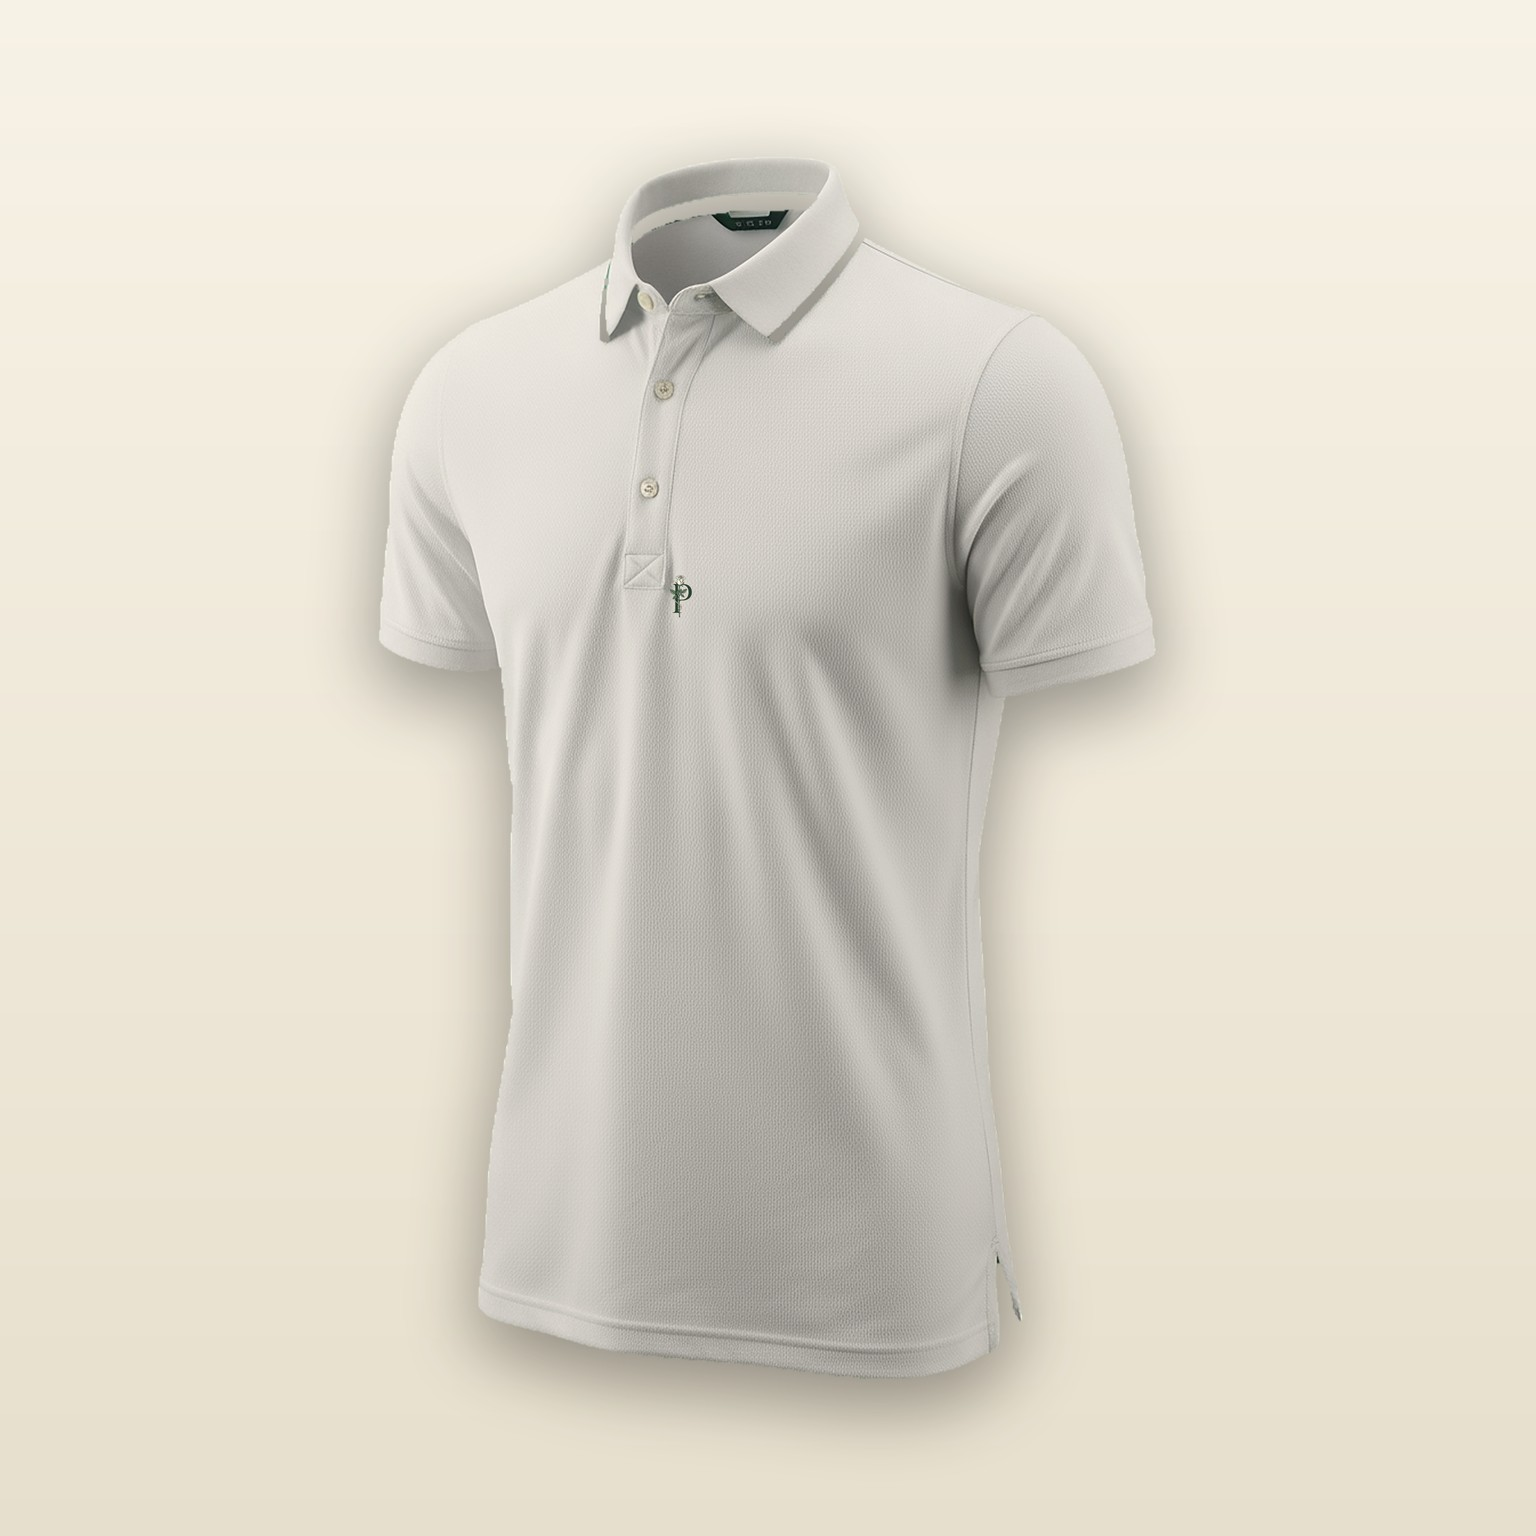
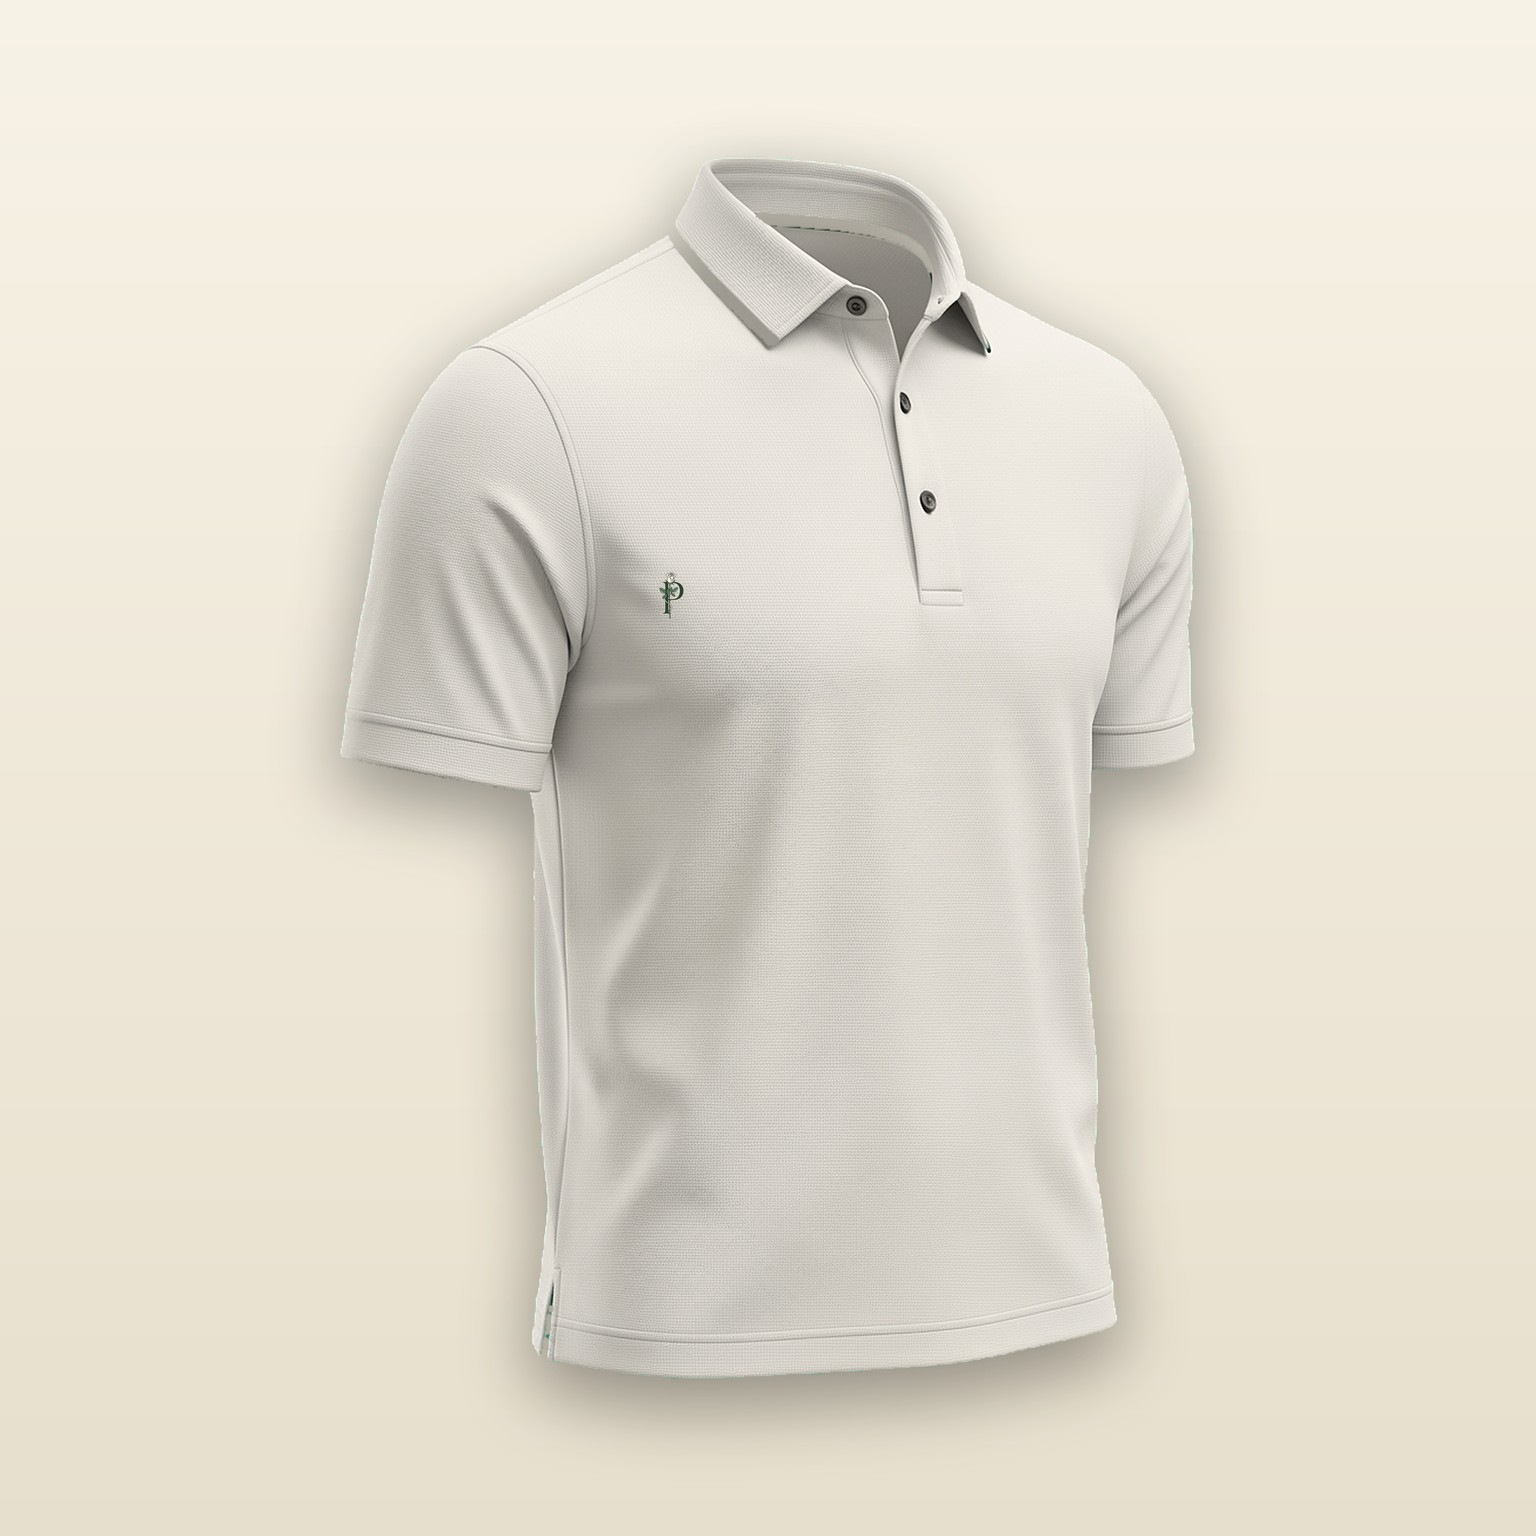
feat(merch): Tour Collection on Imagen-4 ULTRA — correct lineup (quarter-zip/hoodie/polo/vest/cap, no tee) — v8.25.236
Founder 2026-06-22: 'stop using the lowest version, merch looks cheap.' Upgraded the gen
pipeline default to Imagen-4 ULTRA (markedly better fabric/lighting/relief; IMG_MODEL env
override for cheaper tiers). Rebuilt the TOUR lineup to spec: Fairway Quarter-Zip (tour-navy),
Clubhouse Hoodie (charcoal merino, H&B Jackson style), Tour Pro Shirt (white piqué), Fairway
Vest (forest-green knit, H&B Boyd style), Tour Cap (white/navy twill, Titleist style) — the
tee removed from tour (moves to leisure). Vest keyed on blue (green-on-green fix); cap finished
on cream (white-on-green key fix) with the crest composited on the panel. All 5 V1'd retail-grade
with the P+rose crest. Next: leisure line + rubber-hose ball marker.

Changed region(s): [[0.1875, 0.0938, 0.8125, 0.9062]]

diff --git a/src/pages/merch.js b/src/pages/merch.js
@@ -20,11 +20,15 @@ Router.register("merch", function () {
   }
 
   // THE TOUR CAPSULE — P+rose, premium fabric, minimal branding, tour colorway.
+  // v8.25.236 (Founder 2026-06-22): tour line = quarter-zip, hoodie (H&B Jackson
+  // style), polo, vest (H&B Boyd style), cap (Titleist style). NO tee in tour —
+  // the tee belongs to the leisure line. Imagen-4 ULTRA packshots + composited crest.
   var TOUR = [
-    { img: "polo.jpg",       name: "The Tour Pro Shirt",     note: "Tournament-white performance piqué · clean self-collar" },
     { img: "quarterzip.jpg", name: "The Fairway Quarter-Zip", note: "Tour-navy brushed knit · brass pull" },
-    { img: "hoodie.jpg",     name: "The Clubhouse Hoodie",   note: "Heavyweight black brushed fleece" },
-    { img: "tee.jpg",        name: "The Tour Tee",           note: "Heather-grey combed cotton · soft hand" }
+    { img: "hoodie.jpg",     name: "The Clubhouse Hoodie",    note: "Charcoal merino-blend · quarter-zip hood" },
+    { img: "polo.jpg",       name: "The Tour Pro Shirt",      note: "Tournament-white performance piqué" },
+    { img: "vest.jpg",       name: "The Fairway Vest",        note: "Forest-green knit · brass zip" },
+    { img: "hat.jpg",        name: "The Tour Cap",            note: "Structured twill · tour-navy brim" }
   ];
 
   // THE PRO SHOP — accessories carry the brand accents (forest green / brass).

diff --git a/public/sw.js b/public/sw.js
@@ -12,7 +12,7 @@
 // the new SW never activated — browsers fell back to network on every request.
 // Install handler now uses Promise.all + per-asset cache.add().catch() (P22)
 // so future asset-list drift logs warnings instead of nuking the install.
-var CACHE_NAME = 'parbaughs-v8.25.235';
+var CACHE_NAME = 'parbaughs-v8.25.236';
 var STATIC_ASSETS = [
   '/smoky-mountain-open/',
   '/smoky-mountain-open/watermark.jpg',

diff --git a/src/core/utils.js b/src/core/utils.js
@@ -4,7 +4,7 @@
    ================================================ */
 
 // ── App version — single source of truth ──
-var APP_VERSION = "8.25.235";
+var APP_VERSION = "8.25.236";
 
 // ── Onboarding walkthrough (FTUE) — foundation constants/helpers ──
 // WALKTHROUGH_MAJOR is decoupled from APP_VERSION so a patch bump never

diff --git a/scripts/_finish-art.py b/scripts/_finish-art.py
@@ -264,8 +264,11 @@ MERCH = {
                        logo=dict(logo_path=LOGO_FULL, frac_w=0.10, cx=0.39, cy=0.36, opacity=255)),
     "quarterzip": dict(raw="merch-quarterzip", out="public/img/merch/quarterzip.jpg",
                        logo=dict(logo_path=LOGO_GOLD, frac_w=0.10, cx=0.40, cy=0.36, opacity=255)),
-    "tee":        dict(raw="merch-tee",        out="public/img/merch/tee.jpg",
-                       logo=dict(logo_path=LOGO_FULL, frac_w=0.105, cx=0.39, cy=0.34, opacity=255)),
+    # Founder 2026-06-22 tour lineup: vest + hat replace the tee.
+    "vest":       dict(raw="merch-vest",       out="public/img/merch/vest.jpg",
+                       logo=dict(logo_path=LOGO_GOLD, frac_w=0.10, cx=0.40, cy=0.36, opacity=255)),
+    "hat":        dict(raw="merch-hat",        out="public/img/merch/hat.jpg",
+                       logo=dict(logo_path=LOGO_GOLD, frac_w=0.13, cx=0.50, cy=0.44, opacity=255)),
 }
 
 